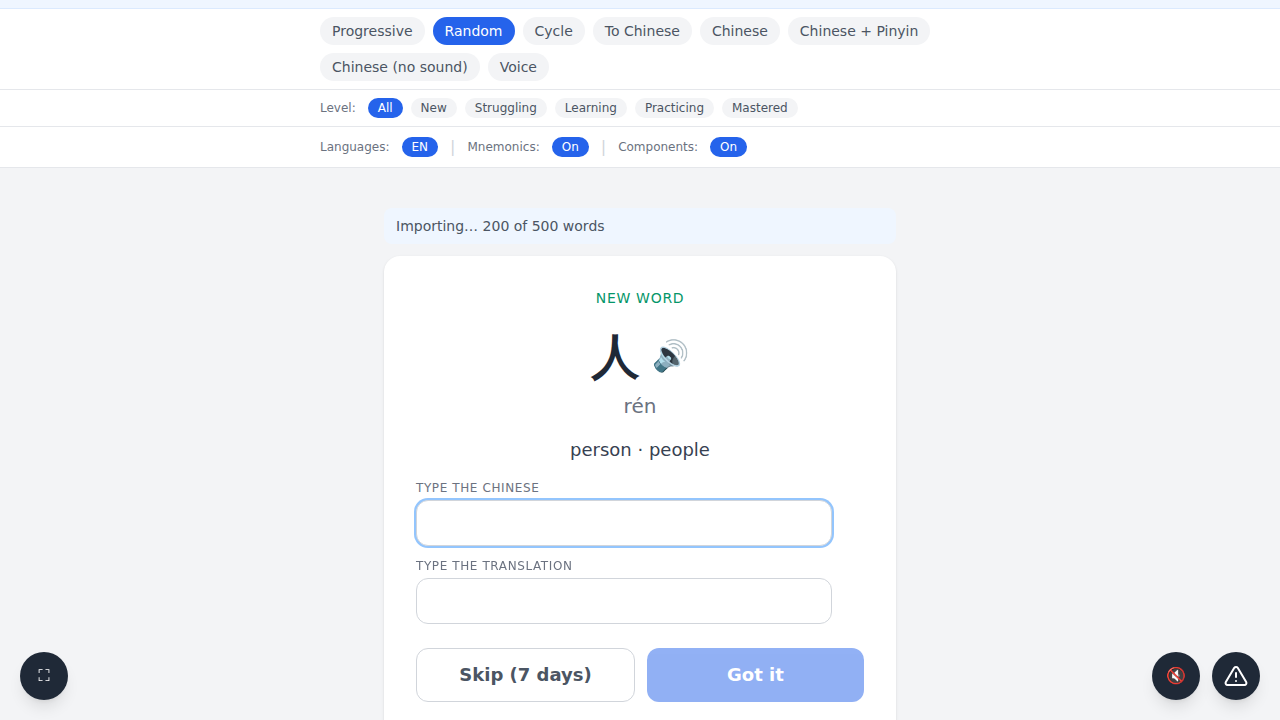
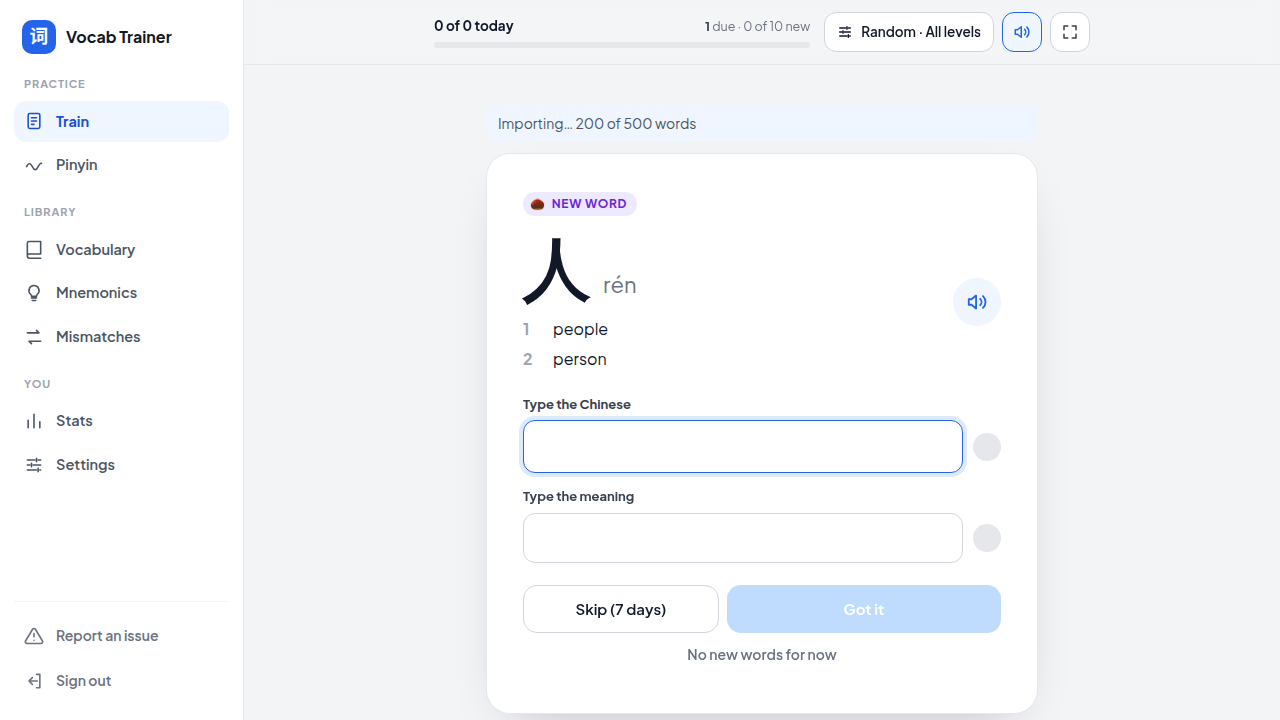
Follow the Vocabulary redesign in the import and CSV E2E specs
The CSV upload is now in the ⋯ menu and the import opens from the header
button. Regenerates the three PR screenshots for the redesigned UI.

Claude-Session: https://claude.ai/code/session_01MsrPYpKbDNdzrCYxvYW2cP

diff --git a/e2e/import.spec.js b/e2e/import.spec.js
@@ -77,7 +77,7 @@ test.describe('Vocabulary → Import', () => {
     });
 
     await page.goto('/vocab');
-    await page.locator('#tab-import').click();
+    await page.locator('#open-import-btn').click();
     await page.locator('#import-tag-list button', { hasText: /^hsk3-2$/ }).click();
     await page.locator('#import-next-btn').click();
     await page.locator('#import-next2-btn').click();

diff --git a/e2e/csv-upload.spec.js b/e2e/csv-upload.spec.js
@@ -32,6 +32,7 @@ async function registerFreshUser(page) {
 async function uploadCsv(page, csv, tag, defaultSource) {
   await registerFreshUser(page);
   await page.goto('/vocab');
+  await page.locator('#vocab-menu-btn').click();
   await page.locator('#csv-upload-btn').click();
   await page.locator('#csv-upload-file').setInputFiles({
     name: 'words.csv',
